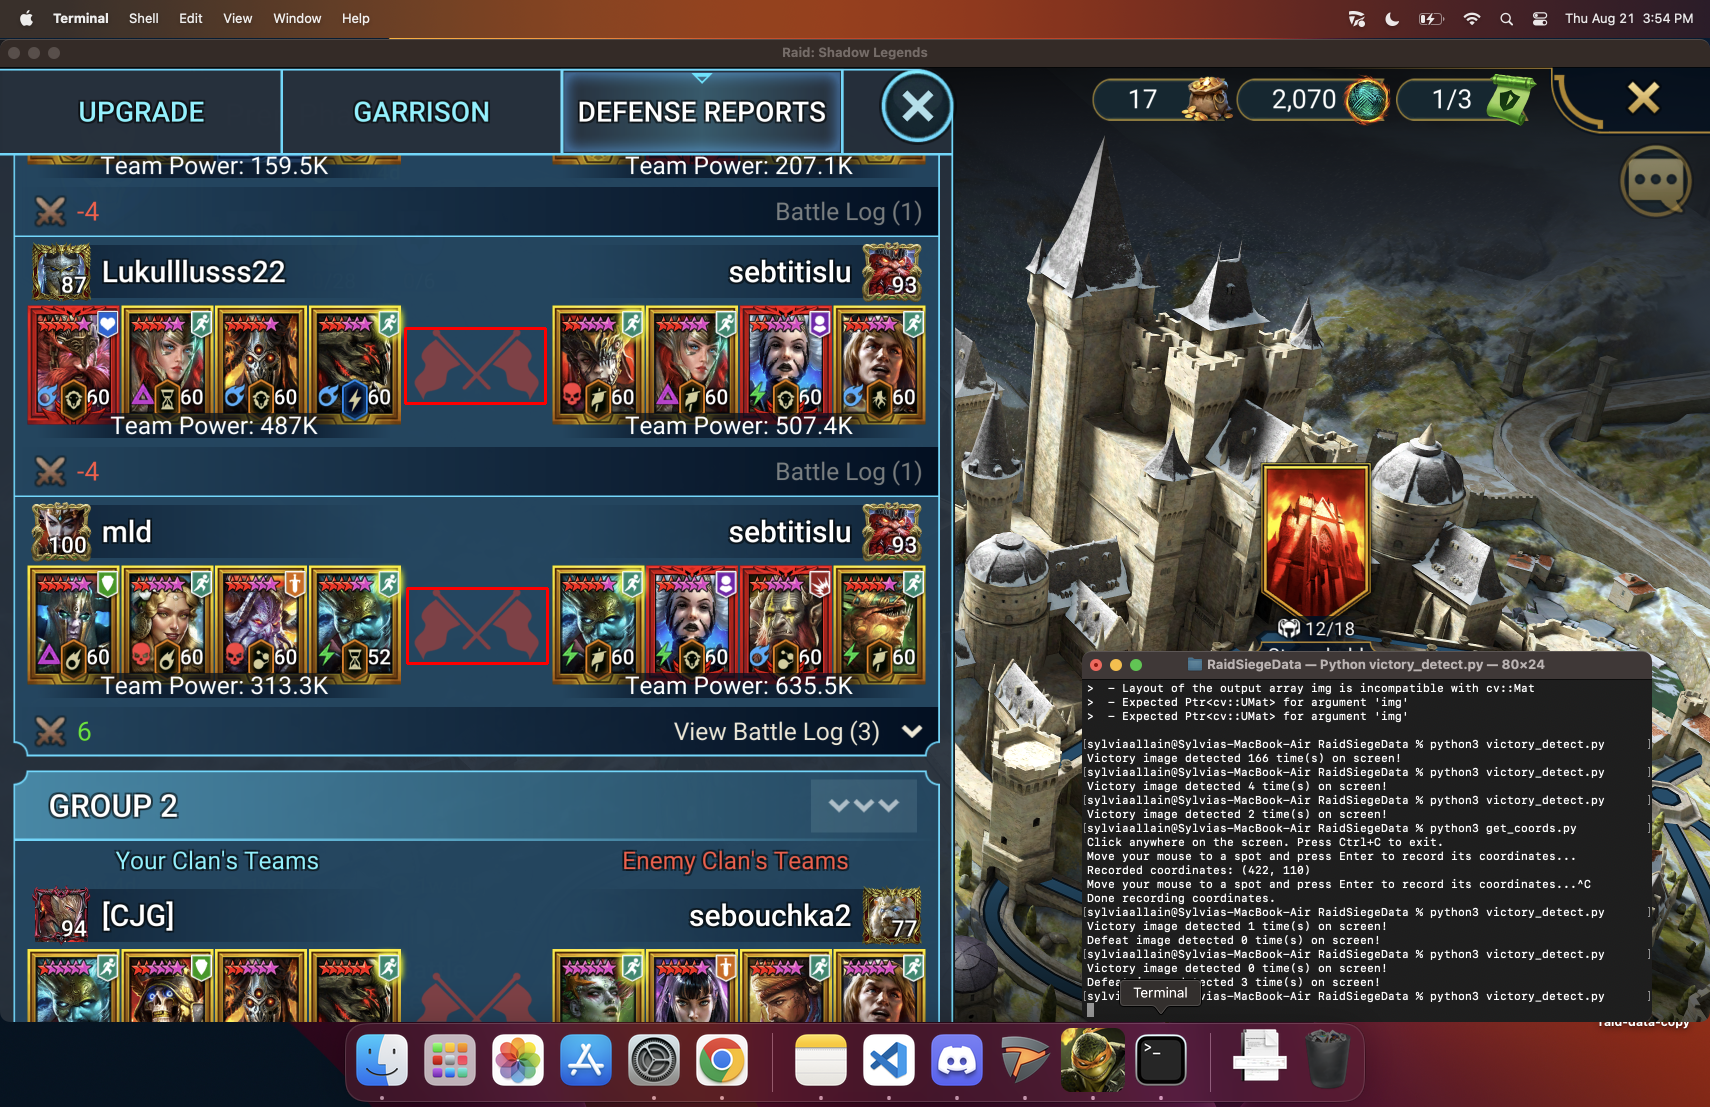
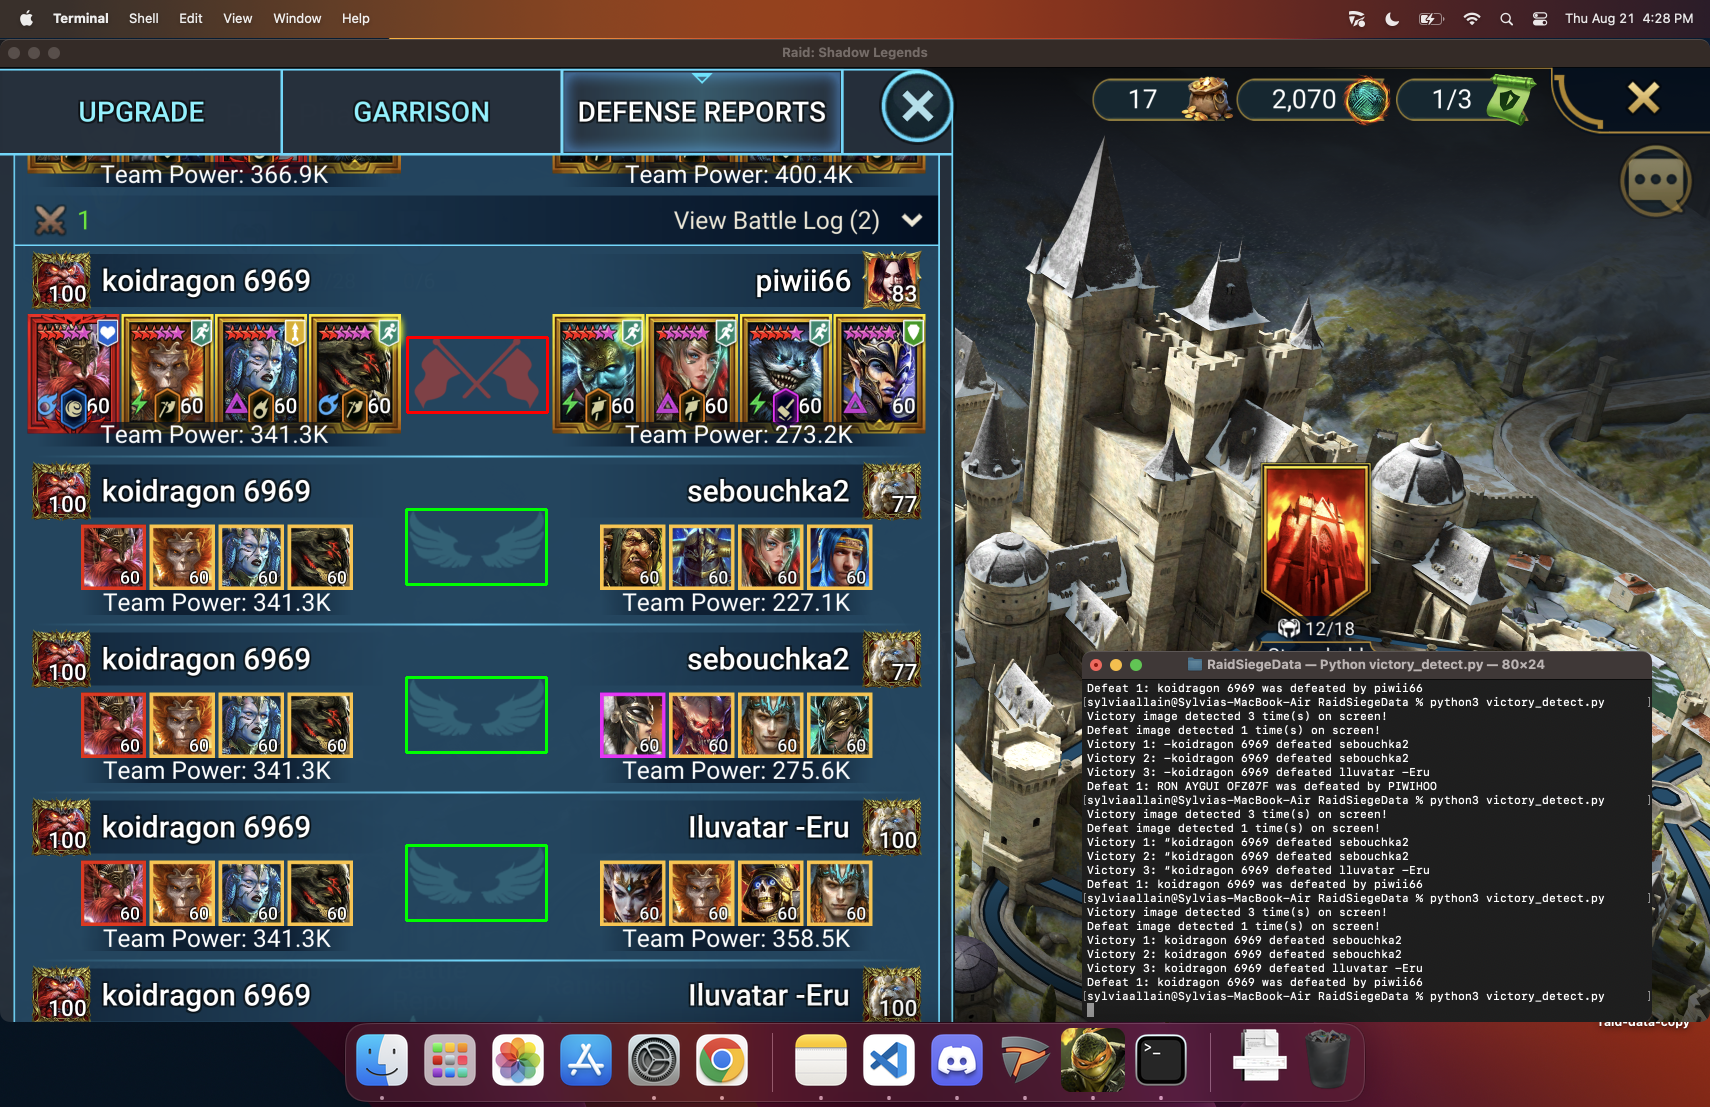
detect victories and losses by players

Changed region(s): [[0.0, 0.1229, 0.5889, 0.9214], [0.6199, 0.6143, 0.9298, 0.9214]]

diff --git a/victory_detect.py b/victory_detect.py
@@ -1,6 +1,8 @@
 import cv2
 import numpy as np
 import mss
+import pytesseract
+from PIL import Image
 
 # Paths to your template images
 VICTORY_TEMPLATE = "templates/victory.png"
@@ -49,6 +51,50 @@ def detect_template(template_path, screenshot, threshold=0.8):
     filtered_points = non_max_suppression(points, tW, tH, overlapThresh=0.3)
     return filtered_points, tW, tH
 
+def extract_names(scr, icon_points, icon_width, icon_height, debug_img_path=None):
+    # Offsets and box size (adjust as needed)
+    left_offset_x = -310 
+    left_offset_y = -70 
+    right_offset_x = 175
+    right_offset_y = -70
+    name_box_width = 275
+    name_box_height = 75
+
+    # Make a copy for debug drawing
+    debug_img = scr.copy() if debug_img_path else None
+
+    results = []
+    for (x, y) in icon_points:
+        left_x1 = x + left_offset_x
+        left_y1 = y + left_offset_y
+        left_x2 = left_x1 + name_box_width
+        left_y2 = left_y1 + name_box_height
+
+        right_x1 = x + right_offset_x
+        right_y1 = y + right_offset_y
+        right_x2 = right_x1 + name_box_width
+        right_y2 = right_y1 + name_box_height
+
+        # Draw rectangles on debug image
+        if debug_img is not None:
+            cv2.rectangle(debug_img, (left_x1, left_y1), (left_x2, left_y2), (255, 255, 0), 2)   # Cyan
+            cv2.rectangle(debug_img, (right_x1, right_y1), (right_x2, right_y2), (255, 0, 255), 2) # Magenta
+
+        # Crop regions and convert to PIL Image for pytesseract
+        left_img = Image.fromarray(scr[left_y1:left_y2, left_x1:left_x2])
+        right_img = Image.fromarray(scr[right_y1:right_y2, right_x1:right_x2])
+
+        left_name = pytesseract.image_to_string(left_img).strip()
+        right_name = pytesseract.image_to_string(right_img).strip()
+
+        results.append((left_name, right_name))
+
+    # Save debug image if requested
+    if debug_img_path and debug_img is not None:
+        cv2.imwrite(debug_img_path, debug_img)
+
+    return results
+
 # Grab screenshot
 with mss.mss() as sct:
     mon = sct.monitors[1] if len(sct.monitors) > 1 else sct.monitors[0]
@@ -70,3 +116,28 @@ print(f"Defeat image detected {len(defeat_points)} time(s) on screen!")
 
 # Save the result image with detections
 cv2.imwrite("detection_result.png", scr)
+
+# Sort detected icons by y-coordinate (top to bottom)
+victory_points_sorted = sorted(victory_points, key=lambda pt: pt[1])
+defeat_points_sorted = sorted(defeat_points, key=lambda pt: pt[1])
+
+# Use sorted lists for name extraction and reporting
+victory_names = extract_names(scr, victory_points_sorted, vW, vH, debug_img_path="victory_names_debug.png")
+defeat_names = extract_names(scr, defeat_points_sorted, dW, dH, debug_img_path="defeat_names_debug.png")
+
+# Combine victories and defeats with labels
+all_results = [
+    *[(pt, 'victory', vW, vH) for pt in victory_points],
+    *[(pt, 'defeat', dW, dH) for pt in defeat_points]
+]
+
+# Sort all by y-coordinate (top to bottom)
+all_results_sorted = sorted(all_results, key=lambda item: item[0][1])
+
+for idx, (pt, result_type, w, h) in enumerate(all_results_sorted):
+    names = extract_names(scr, [pt], w, h)
+    left, right = names[0]
+    if result_type == 'victory':
+        print(f"{idx+1}. Victory: {left} defeated {right}")
+    else:
+        print(f"{idx+1}. Defeat: {left} was defeated by {right}")
